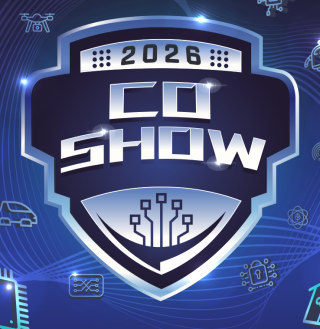
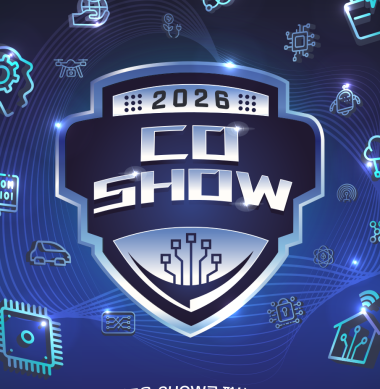
Wide key visual start screen and feathered emblem
- Start screen uses landscape 1920x1080 key visual (no cropping)
- Result card emblem re-cropped with margins and radial edge feathering
- Cache-bust v8

diff --git a/js/result.js b/js/result.js
@@ -41,9 +41,23 @@ export function renderCard(canvas, { nickname, score, bananas, best, koaiSprite,
 
   // 상단: 키비주얼 방패 엠블럼 (없으면 텍스트 타이틀)
   if (emblem) {
-    const ew = 62;
+    const ew = 88;
     const eh = Math.round((ew * emblem.naturalHeight) / emblem.naturalWidth);
-    g.drawImage(emblem, (CW - ew) / 2, 8, ew, eh);
+    // 가장자리를 방사형으로 페이드시켜 카드 배경(남색)에 자연스럽게 녹인다
+    const off = document.createElement('canvas');
+    off.width = emblem.naturalWidth;
+    off.height = emblem.naturalHeight;
+    const og = off.getContext('2d');
+    og.drawImage(emblem, 0, 0);
+    og.globalCompositeOperation = 'destination-in';
+    const ecx = off.width / 2, ecy = off.height / 2;
+    const er = Math.max(ecx, ecy);
+    const grad = og.createRadialGradient(ecx, ecy, er * 0.6, ecx, ecy, er * 0.98);
+    grad.addColorStop(0, 'rgba(0,0,0,1)');
+    grad.addColorStop(1, 'rgba(0,0,0,0)');
+    og.fillStyle = grad;
+    og.fillRect(0, 0, off.width, off.height);
+    g.drawImage(off, (CW - ew) / 2, 0, ew, eh);
   } else {
     g.textAlign = 'center';
     g.fillStyle = '#ffd23f';

diff --git a/js/game.js b/js/game.js
@@ -1,7 +1,7 @@
 // game.js — 코아이 러너 메인 (게임 루프 + 화면 전환)
-import { loadAssets } from './assets.js?v=7';
-import { initFirebase, registerUser, submitScore, fetchLeaderboard, isOnline, getUid } from './firebase.js?v=7';
-import { renderCard, saveCard } from './result.js?v=7';
+import { loadAssets } from './assets.js?v=8';
+import { initFirebase, registerUser, submitScore, fetchLeaderboard, isOnline, getUid } from './firebase.js?v=8';
+import { renderCard, saveCard } from './result.js?v=8';
 
 // ───────── 내부 해상도 (픽셀아트 기준) ─────────
 const W = 400, H = 240;

diff --git a/index.html b/index.html
@@ -6,7 +6,7 @@
   <title>CO-SHOW 코아이 러너</title>
   <meta name="description" content="CO-SHOW 미니게임 — 코아이와 함께 달리며 바나나를 모아보세요!">
   <link rel="icon" type="image/png" href="assets/koai.png">
-  <link rel="stylesheet" href="css/style.css?v=7">
+  <link rel="stylesheet" href="css/style.css?v=8">
 </head>
 <body>
   <div id="wrap">
@@ -54,6 +54,6 @@
     </footer>
   </div>
 
-  <script type="module" src="js/game.js?v=7"></script>
+  <script type="module" src="js/game.js?v=8"></script>
 </body>
 </html>

diff --git a/css/style.css b/css/style.css
@@ -71,7 +71,7 @@ canvas#game {
 #startScreen {
   background:
     linear-gradient(rgba(16, 18, 31, 0.5), rgba(16, 18, 31, 0.72)),
-    url('../assets/bg/keyvisual.png') center / cover no-repeat,
+    url('../assets/bg/keyvisual_wide.png') center / cover no-repeat,
     #141a3a;
 }
 
